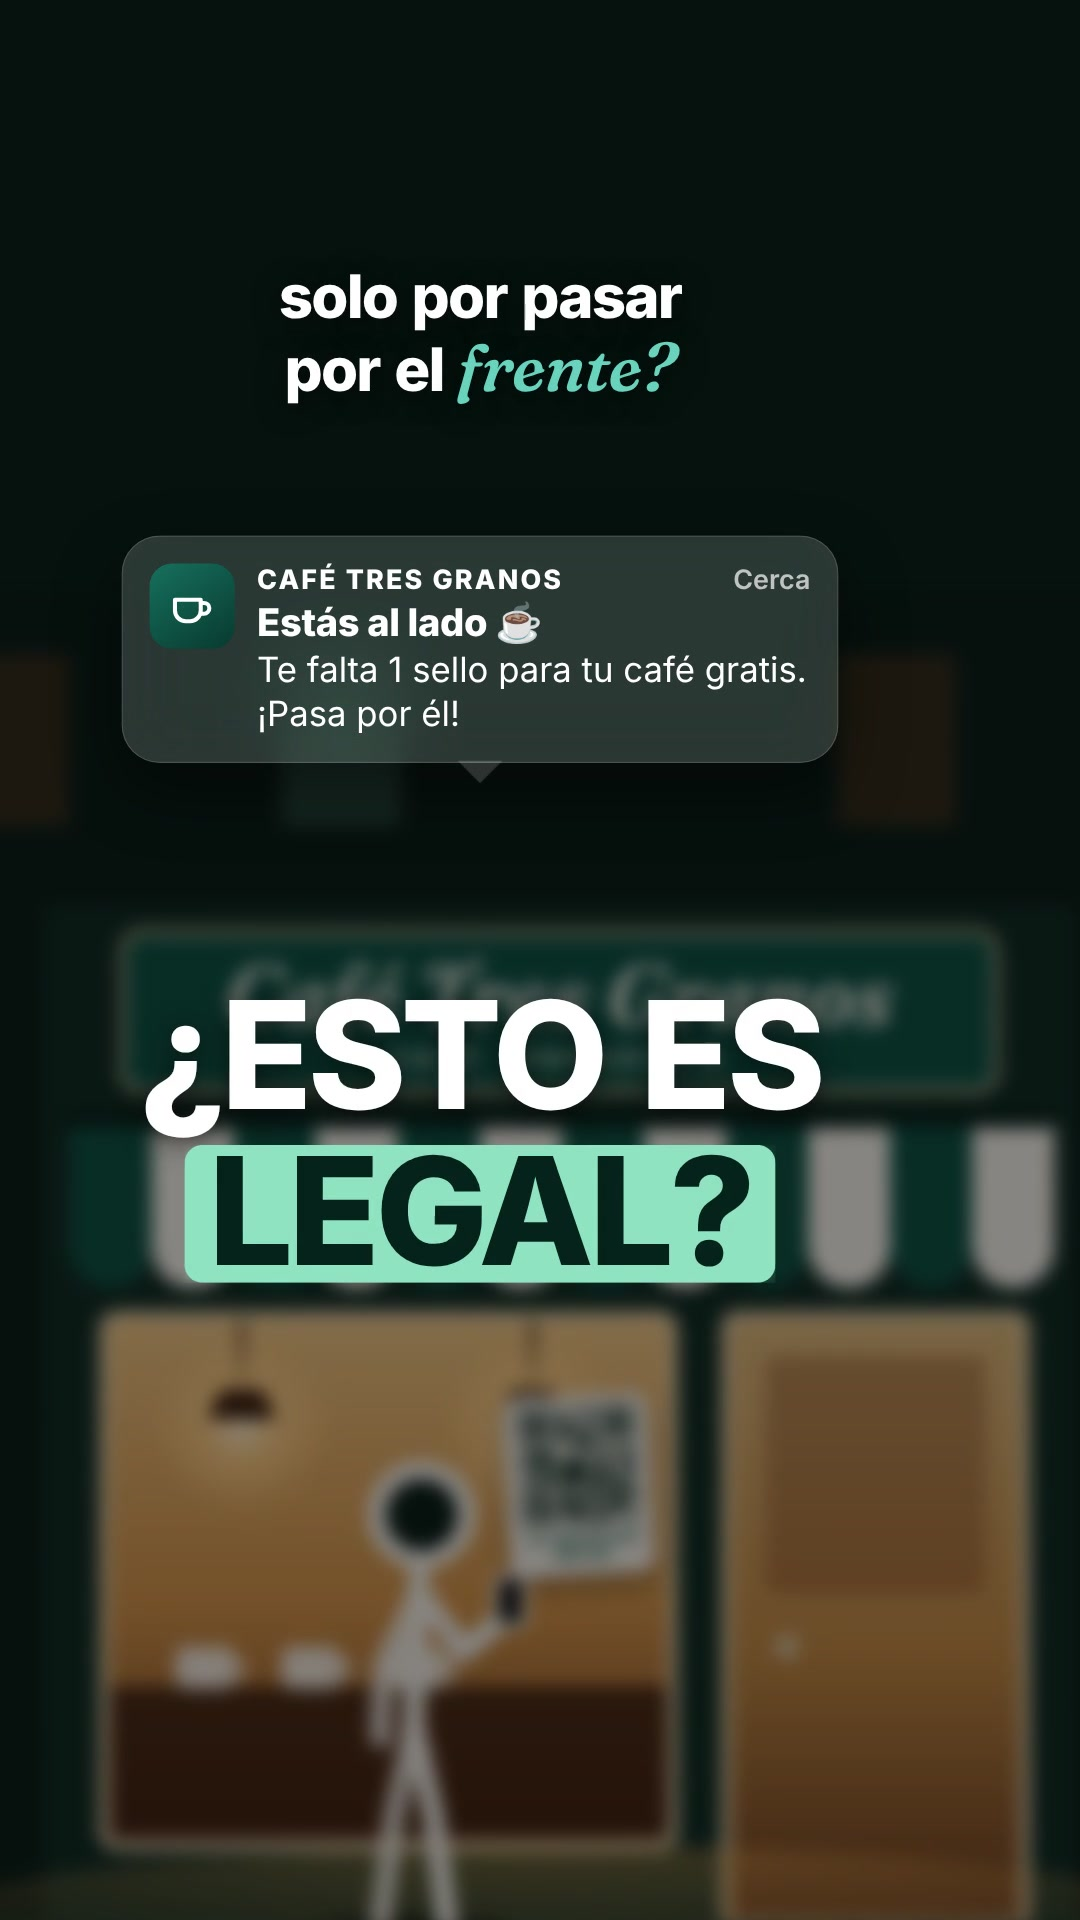
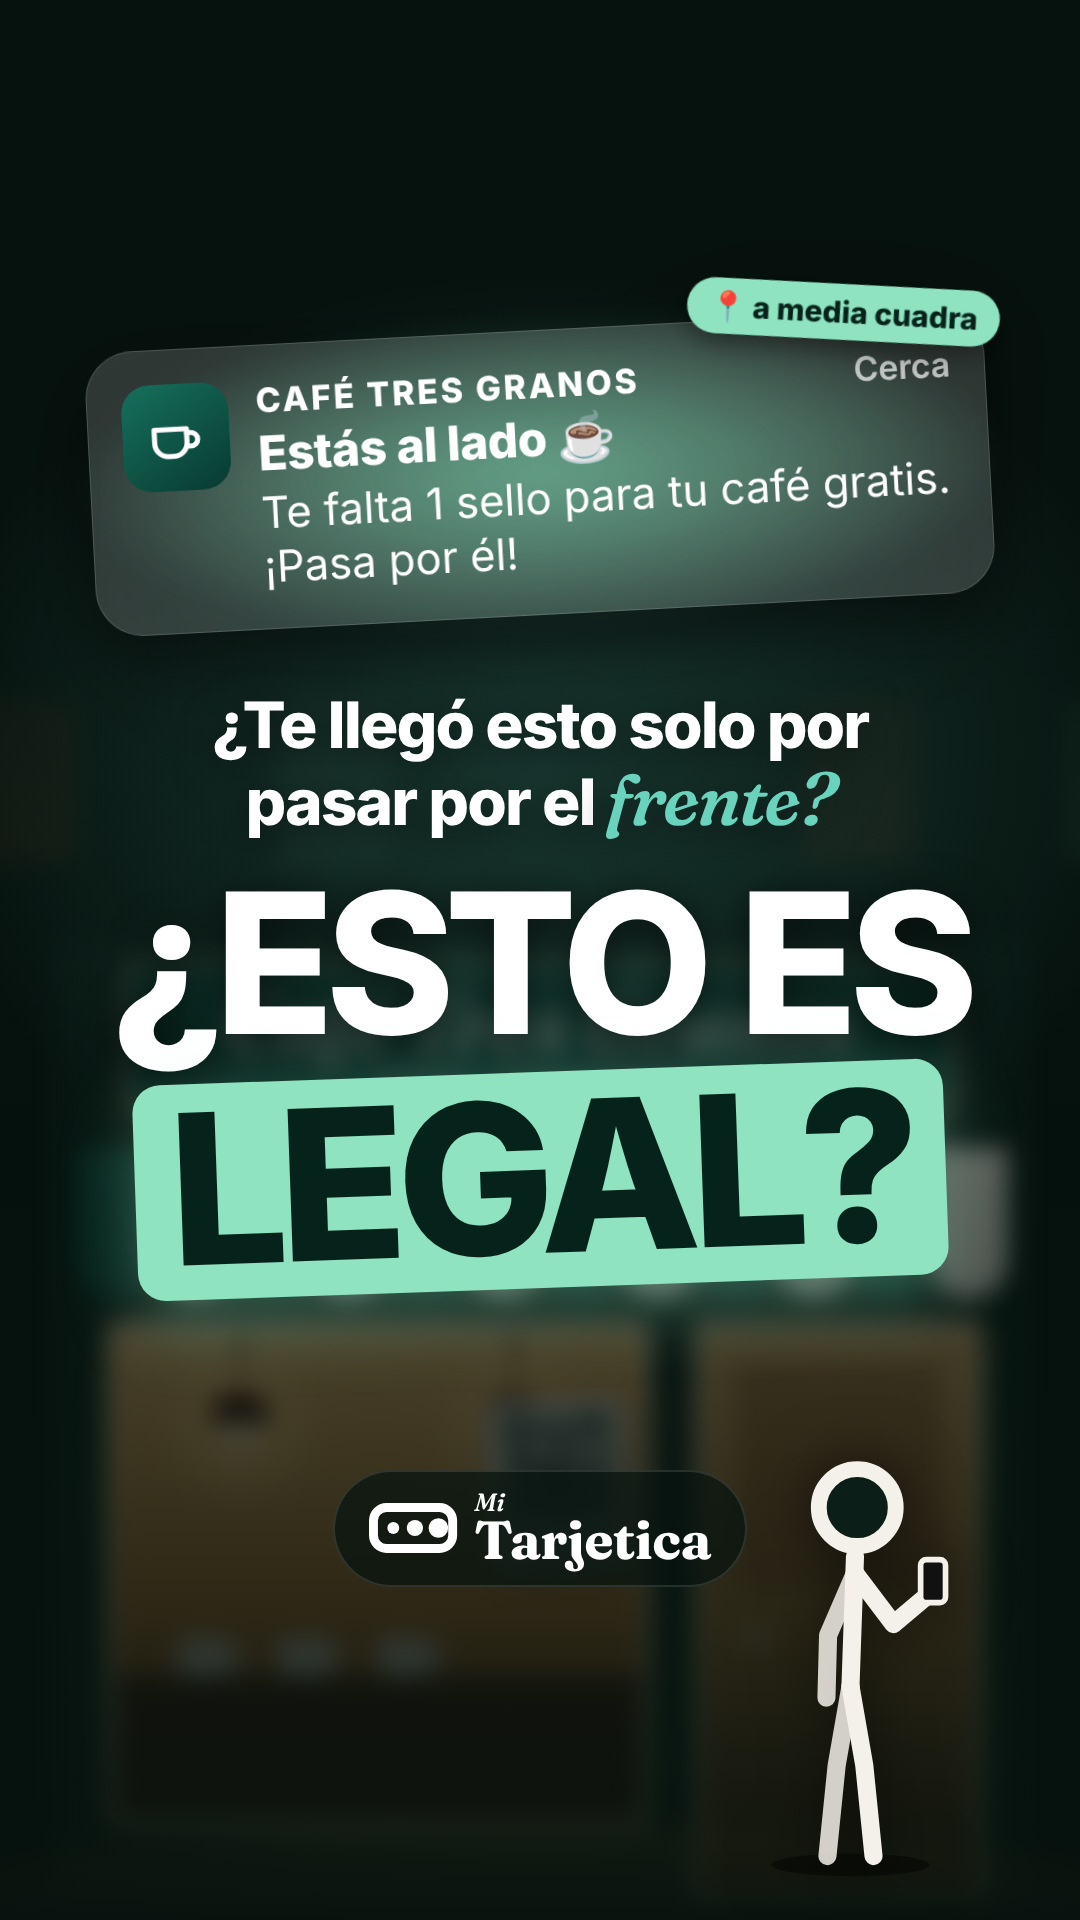
Video ¿Es legal?: portada diseñada para el reel
Nueva Still Portada (1080x1920) con la notificación, el titular
"¿ESTO ES LEGAL?" y el logo, centrada en la franja que muestra la
cuadrícula del perfil; exportada en JPG/PNG y recorte 4:5.

Claude-Session: https://claude.ai/code/session_01NppBQeaMzGkiMEcfsUkZi3

diff --git a/es-legal/src/Portada.tsx b/es-legal/src/Portada.tsx
@@ -1,0 +1,76 @@
+import React from "react";
+import { AbsoluteFill } from "remotion";
+import { brand } from "./brand";
+import { font, logoFont, tracking } from "./fonts";
+import { Logo } from "./components/Logo";
+import { Notification } from "./components/Notification";
+import { Storefront, SIDEWALK_Y, Walker } from "./components/Storefront";
+
+/**
+ * Portada del reel (1080×1920). Todo lo importante va en la franja central 1080×1350
+ * (y 285–1635), que es lo que se ve en la cuadrícula del perfil.
+ */
+export const Portada: React.FC = () => (
+  <AbsoluteFill style={{ background: brand.colors.bg, overflow: "hidden" }}>
+    {/* fachada del café, desenfocada como fondo */}
+    <AbsoluteFill style={{ transform: "scale(1.25)", transformOrigin: "540px 1500px", filter: "blur(10px) brightness(0.55) saturate(1.1)" }}>
+      <div style={{ position: "absolute", left: 0, top: 820 }}>
+        <Storefront />
+      </div>
+    </AbsoluteFill>
+    <AbsoluteFill
+      style={{
+        background: `radial-gradient(ellipse 900px 700px at 540px 760px, rgba(105,211,190,0.20), transparent 70%),
+          linear-gradient(180deg, ${brand.colors.bg} 0%, rgba(6,18,14,0.75) 30%, rgba(6,18,14,0.35) 60%, rgba(6,18,14,0.85) 100%)`,
+      }}
+    />
+    {/* persona con el celular, pasando por el frente */}
+    <div style={{ position: "absolute", inset: 0, filter: "drop-shadow(0 0 30px rgba(0,0,0,0.6))" }}>
+      <Walker x={850} y={820 + SIDEWALK_Y + 40} height={430} phase={0.9} />
+    </div>
+
+    {/* la notificación */}
+    <div style={{ position: "absolute", left: 90, top: 330, transform: "rotate(-3deg)", filter: "drop-shadow(0 30px 60px rgba(0,0,0,0.55))" }}>
+      <div style={{ position: "absolute", inset: -24, borderRadius: 60, background: "radial-gradient(closest-side, rgba(143,227,192,0.35), transparent)", filter: "blur(10px)" }} />
+      <Notification width={900} />
+      <div style={{ position: "absolute", right: -18, top: -30, padding: "10px 22px", borderRadius: 999, background: brand.colors.highlight, color: brand.colors.ink, fontFamily: font, fontWeight: 800, fontSize: 30, transform: "rotate(6deg)", boxShadow: "0 10px 24px rgba(0,0,0,0.35)" }}>
+        📍 a media cuadra
+      </div>
+    </div>
+
+    {/* titular */}
+    <div style={{ position: "absolute", left: 0, right: 0, top: 690, display: "flex", flexDirection: "column", alignItems: "center", fontFamily: font, color: brand.colors.white, textShadow: "0 8px 40px rgba(0,0,0,0.6)" }}>
+      <div style={{ fontSize: 64, fontWeight: 800, letterSpacing: tracking.headline, lineHeight: 1.1, textAlign: "center" }}>
+        ¿Te llegó esto solo por
+        <br />
+        pasar por el <span style={{ fontFamily: logoFont, fontStyle: "italic", fontWeight: 600, color: brand.colors.mint, fontSize: "1.12em" }}>frente?</span>
+      </div>
+      <div style={{ marginTop: 34, fontSize: 196, fontWeight: 800, letterSpacing: "-0.045em", lineHeight: 0.92, textAlign: "center" }}>¿ESTO ES</div>
+      <div
+        style={{
+          marginTop: 18,
+          fontSize: 210,
+          fontWeight: 800,
+          letterSpacing: "-0.045em",
+          lineHeight: 1,
+          color: brand.colors.ink,
+          background: brand.colors.highlight,
+          padding: "0 34px 6px",
+          borderRadius: 28,
+          transform: "rotate(-2deg)",
+          textShadow: "none",
+          boxShadow: "0 24px 70px rgba(143,227,192,0.35)",
+        }}
+      >
+        LEGAL?
+      </div>
+    </div>
+
+    {/* marca */}
+    <div style={{ position: "absolute", left: 0, right: 0, top: 1470, display: "flex", justifyContent: "center" }}>
+      <div style={{ padding: "18px 34px", borderRadius: 999, background: "rgba(6,18,14,0.7)", border: "2px solid rgba(255,255,255,0.12)" }}>
+        <Logo height={96} color={brand.colors.white} />
+      </div>
+    </div>
+  </AbsoluteFill>
+);

diff --git a/es-legal/src/Root.tsx b/es-legal/src/Root.tsx
@@ -1,9 +1,13 @@
 import React from "react";
-import { Composition } from "remotion";
+import { Composition, Still } from "remotion";
 import { EsLegal } from "./EsLegal";
+import { Portada } from "./Portada";
 import { DURATION_SEC, FPS } from "./timeline";
 import "./fonts";
 
 export const RemotionRoot: React.FC = () => (
+  <>
   <Composition id="EsLegal" component={EsLegal} durationInFrames={Math.round(DURATION_SEC * FPS)} fps={FPS} width={1080} height={1920} />
+    <Still id="Portada" component={Portada} width={1080} height={1920} />
+  </>
 );

diff --git a/PUBLICACIONES-MI-TARJETICA/14-video-es-legal/LEEME.md b/PUBLICACIONES-MI-TARJETICA/14-video-es-legal/LEEME.md
@@ -1,7 +1,9 @@
 # Video "¿Es legal?" — aviso por cercanía
 
 `es-legal-vertical.mp4` · 1080×1920 · 44 s · voz de ElevenLabs ("Lina", colombiana), subtítulos y música (audio masterizado para redes).
-`portada.jpg` · fotograma "¿ESTO ES LEGAL?" para usar de portada del reel.
+`portada.jpg` / `portada.png` · portada diseñada del reel (1080×1920): notificación + "¿ESTO ES LEGAL?" + logo; lo
+importante va en la franja central que se ve en la cuadrícula del perfil.
+`portada-4x5-feed.jpg` · el mismo diseño recortado a 1080×1350, por si quieres publicarla también como imagen.
 
 Para Reels y TikTok. Gancho: *"¿Es legal que un negocio te mande esto, solo por pasar por el frente?"*.
 Explica que la notificación la muestra el propio celular con la tarjeta que el cliente guardó (el

diff --git a/es-legal/README.md b/es-legal/README.md
@@ -28,6 +28,7 @@ npm install
 npx remotion studio                                    # vista previa
 npx remotion render EsLegal out/es-legal.mp4 --codec=h264 --crf=16 --audio-bitrate=192k
 bash scripts/master-audio.sh out/es-legal.mp4          # audio al estándar de redes
+npx remotion still Portada out/portada.png             # portada del reel (src/Portada.tsx)
 ```
 Sin internet: antepón `REMOTION_LOCAL_FONTS=1`.
 
